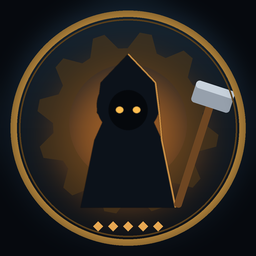
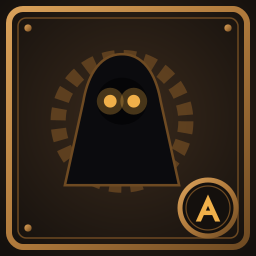
Update CI workflow and packaging scripts for improved versioning and artifact handling (#15)

diff --git a/README.md b/README.md
@@ -1,3 +1,7 @@
+[![CI](https://img.shields.io/github/actions/workflow/status/javidahmed64592/valheim-dvergrworkers/ci.yml?branch=main&style=flat-square&label=CI&logo=github)](https://github.com/javidahmed64592/valheim-dvergrworkers/actions/workflows/ci.yml)
+[![Package](https://img.shields.io/github/actions/workflow/status/javidahmed64592/valheim-dvergrworkers/package.yml?branch=main&style=flat-square&label=Package&logo=github)](https://github.com/javidahmed64592/valheim-dvergrworkers/actions/workflows/package.yml)
+[![License: MIT](https://img.shields.io/badge/License-MIT-yellow.svg)](https://opensource.org/licenses/MIT)
+
 # Dvergr Workers
 
 Dvergr workers help around your base and defend it when it is under attack:
@@ -113,3 +117,7 @@ You can change the work radius, how often each role runs, how close workers need
 ## Roadmap
 
 Social behaviour such as chatting and greeting players, and smarter inventory management for workers.
+
+## License
+
+This project is licensed under the MIT License - see the [LICENSE](https://github.com/javidahmed64592/Valheim-DvergrWorkers/blob/main/LICENSE) file for details.

diff --git a/CHANGELOG.md b/CHANGELOG.md
@@ -4,6 +4,8 @@
 
 - Added an `.editorconfig`, `Directory.Build.props` and a CI workflow that runs `dotnet format` and a Release build.
 - Reformatted the code and fixed analyzer warnings to match the new code style rules (no behaviour change).
+- Tidied up packaging scripts and workflow files.
+- Updated README and icon.
 
 ## 0.8.1
 
